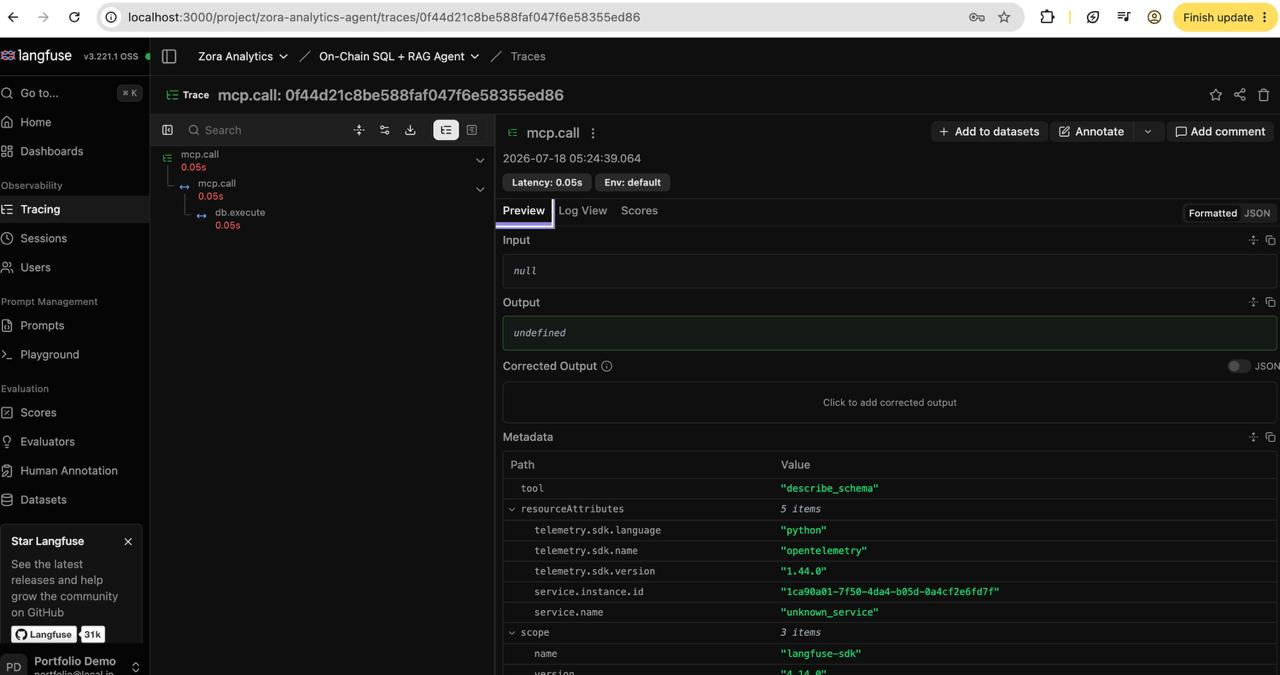
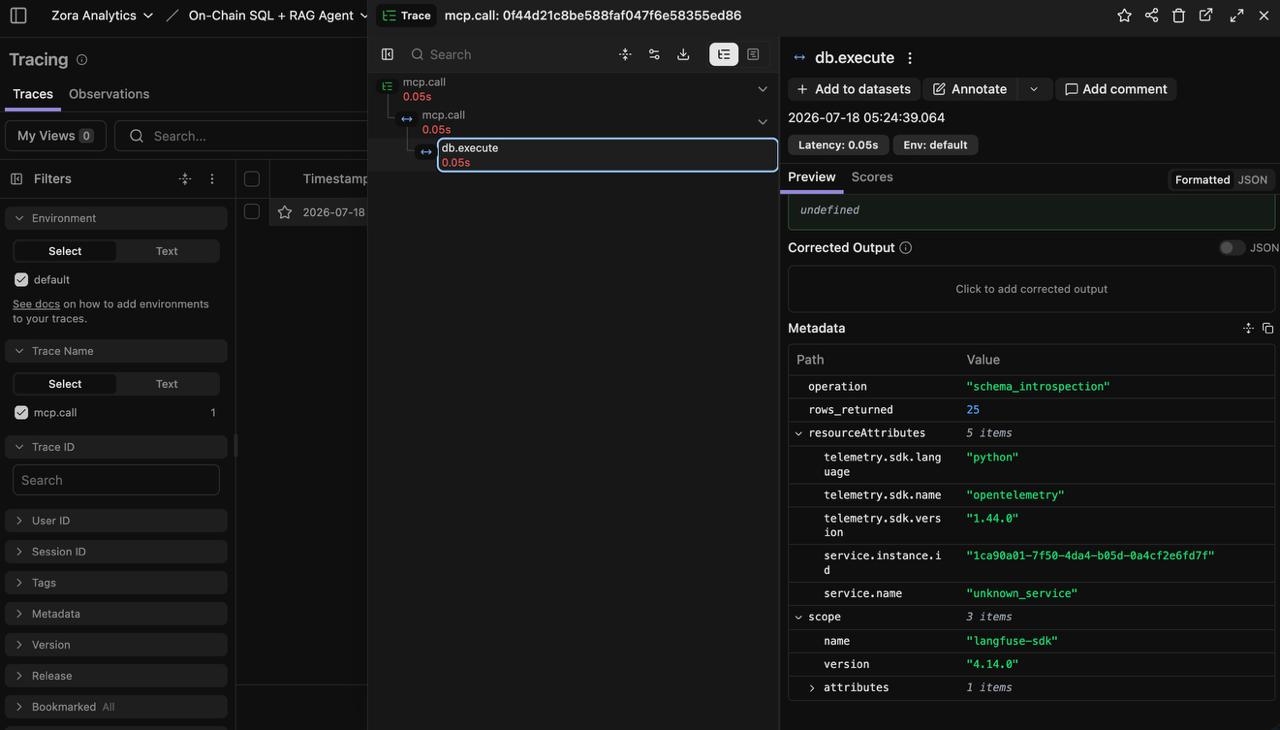
fix: finalize observability and evaluation reporting

diff --git a/tests/eval/test_retrieval_report.py b/tests/eval/test_retrieval_report.py
@@ -1,0 +1,35 @@
+from eval.retrieval_report import render_retrieval_markdown
+
+
+def _summary(mode: str, groundedness: float | None) -> dict[str, object]:
+    return {
+        "mode": mode,
+        "precision_at_k": 0.2,
+        "recall_at_k": 0.9,
+        "mrr": 0.8,
+        "groundedness": groundedness,
+        "status": "completed",
+    }
+
+
+def test_groundedness_note_is_omitted_when_judge_results_exist() -> None:
+    markdown = render_retrieval_markdown(
+        [_summary("dense", 0.96), _summary("hybrid", 0.93)],
+        top_k=5,
+        embedding_model="test-model",
+    )
+
+    assert "Groundedness is `n/a`" not in markdown
+    assert "96.00%" in markdown
+    assert "unavailable reranker" in markdown
+
+
+def test_groundedness_note_is_present_when_judge_result_is_missing() -> None:
+    markdown = render_retrieval_markdown(
+        [_summary("dense", None), _summary("hybrid", 0.93)],
+        top_k=5,
+        embedding_model="test-model",
+    )
+
+    assert "Groundedness is `n/a` only where" in markdown
+    assert "| n/a |" in markdown

diff --git a/tests/observability/test_tracing.py b/tests/observability/test_tracing.py
@@ -1,5 +1,10 @@
 from __future__ import annotations
 
+import sys
+from types import SimpleNamespace
+
+from opentelemetry.sdk.resources import SERVICE_NAME
+
 from app.config import Settings
 from observability import tracing
 
@@ -21,3 +26,26 @@ def test_tracer_is_noop_without_langfuse_configuration(monkeypatch) -> None:
         span.set_attribute("nullable", None)
 
     assert tracing.tracing_enabled() is False
+
+
+def test_langfuse_client_uses_named_otel_resource(monkeypatch) -> None:
+    captured: dict[str, object] = {}
+
+    class FakeLangfuse:
+        def __init__(self, **kwargs: object) -> None:
+            captured.update(kwargs)
+
+    monkeypatch.setitem(sys.modules, "langfuse", SimpleNamespace(Langfuse=FakeLangfuse))
+    tracing.reset_tracing_for_tests()
+
+    client = tracing._build_client(
+        "pk-test",
+        "sk-test",
+        "http://langfuse.test",
+        "zora-analytics-agent",
+    )
+
+    assert isinstance(client, FakeLangfuse)
+    provider = captured["tracer_provider"]
+    assert provider.resource.attributes[SERVICE_NAME] == "zora-analytics-agent"
+    tracing.reset_tracing_for_tests()

diff --git a/tests/conftest.py b/tests/conftest.py
@@ -1,0 +1,24 @@
+"""Keep tests isolated from developer-local telemetry configuration."""
+
+from __future__ import annotations
+
+from collections.abc import Iterator
+
+import pytest
+
+from app.config import get_settings
+from observability.tracing import reset_tracing_for_tests
+
+
[email redacted](autouse=True)
+def disable_external_tracing(monkeypatch: pytest.MonkeyPatch) -> Iterator[None]:
+    """Prevent a local ``.env`` from exporting test spans to Langfuse."""
+
+    monkeypatch.setenv("LANGFUSE_PUBLIC_KEY", "")
+    monkeypatch.setenv("LANGFUSE_SECRET_KEY", "")
+    monkeypatch.setenv("LANGFUSE_HOST", "")
+    get_settings.cache_clear()
+    reset_tracing_for_tests()
+    yield
+    get_settings.cache_clear()
+    reset_tracing_for_tests()

diff --git a/observability/tracing.py b/observability/tracing.py
@@ -141,19 +141,29 @@ def _get_configured_client() -> Any | None:
     host = (settings.langfuse_host or "").rstrip("/")
     if not public_key or not secret_key or not host:
         return None
-    return _build_client(public_key, secret_key, host)
+    return _build_client(public_key, secret_key, host, settings.otel_service_name)
 
 
 @lru_cache(maxsize=4)
-def _build_client(public_key: str, secret_key: str, host: str) -> Any | None:
+def _build_client(
+    public_key: str,
+    secret_key: str,
+    host: str,
+    service_name: str,
+) -> Any | None:
     try:
         from langfuse import Langfuse
+        from opentelemetry.sdk.resources import SERVICE_NAME, Resource
+        from opentelemetry.sdk.trace import TracerProvider
+
+        tracer_provider = TracerProvider(resource=Resource.create({SERVICE_NAME: service_name}))
 
         try:
             return Langfuse(
                 public_key=public_key,
                 secret_key=secret_key,
                 base_url=host,
+                tracer_provider=tracer_provider,
             )
         except TypeError:
             # Compatibility with Langfuse v3, which called this argument ``host``.

diff --git a/app/config.py b/app/config.py
@@ -74,6 +74,7 @@ class Settings(BaseSettings):
     langfuse_public_key: str | None = None
     langfuse_secret_key: SecretStr | None = None
     langfuse_host: str | None = None
+    otel_service_name: str = "zora-analytics-agent"
 
     retrieval_enabled: bool = True
     embeddings_provider: Literal["fastembed", "openai"] = "fastembed"
@@ -105,6 +106,14 @@ class Settings(BaseSettings):
     @classmethod
     def strip_base_url(cls, value: str) -> str:
         return value.rstrip("/")
+
+    @field_validator("otel_service_name")
+    @classmethod
+    def require_otel_service_name(cls, value: str) -> str:
+        stripped = value.strip()
+        if not stripped:
+            raise ValueError("OTEL_SERVICE_NAME cannot be empty")
+        return stripped
 
     @field_validator("admin_sync_token")
     @classmethod

diff --git a/eval/retrieval_report.py b/eval/retrieval_report.py
@@ -39,10 +39,13 @@ def render_retrieval_markdown(
                 status=summary.get("status", "unknown"),
             )
         )
+    lines.append("")
+    if any(summary.get("groundedness") is None for summary in summaries):
+        lines.append(
+            "Groundedness is `n/a` only where the optional provider-backed judge did not run."
+        )
     lines.extend(
         [
-            "",
-            "Groundedness is `n/a` unless the optional provider-backed judge was run. "
             "An unavailable reranker is reported explicitly and is never relabeled "
             "as a reranked run.",
             "",

diff --git a/README.md b/README.md
@@ -9,7 +9,7 @@ hybrid document retrieval, then returns the answer together with SQL rows and/or
 The model provider is swappable: Anthropic and OpenAI API adapters are available, while
 `claude_code` uses an authenticated Claude Code Pro/Max subscription without API-token billing.
 
-> **Tests:** 100 tests currently pass, including the SQL attack suite, circuit/cache behavior,
+> **Tests:** 103 tests currently pass, including the SQL attack suite, circuit/cache behavior,
 > MCP protocol handshake, retrieval provenance, and eval scorers.
 
 ## What this demonstrates
@@ -180,7 +180,8 @@ Open [localhost:3000](http://localhost:3000), create the first project/key pair,
 `.env`, and set `LANGFUSE_HOST=http://localhost:3000` for a host-run API. For the Compose API, set
 `LANGFUSE_DOCKER_HOST=http://langfuse-web:3000`. The optional `LANGFUSE_INIT_*` variables perform
 the same organization/project/user setup headlessly on first startup. Change all `LANGFUSE_*`
-local secrets before exposing that profile.
+local secrets before exposing that profile. `OTEL_SERVICE_NAME` defaults to `zora-analytics-agent`
+so new traces have a stable service identity instead of an anonymous OpenTelemetry resource.
 
 A local smoke run on 2026-07-18 sent a real MCP `describe_schema` call through this instrumentation:
 Langfuse stored one `mcp.call` trace with a nested `db.execute` span. The local project uses a

diff --git a/eval/results/retrieval-latest.md b/eval/results/retrieval-latest.md
@@ -6,4 +6,4 @@ Real retrieval run using `BAAI/bge-small-en-v1.5`; ranking cutoff k=5.
 | Dense + FTS (RRF) | 22.86% | 92.86% | 0.9315 | 92.86% | completed |
 | Hybrid + reranker | 23.57% | 94.64% | 0.9643 | 96.43% | completed |
 
-Groundedness is `n/a` unless the optional provider-backed judge was run. An unavailable reranker is reported explicitly and is never relabeled as a reranked run.
+An unavailable reranker is reported explicitly and is never relabeled as a reranked run.